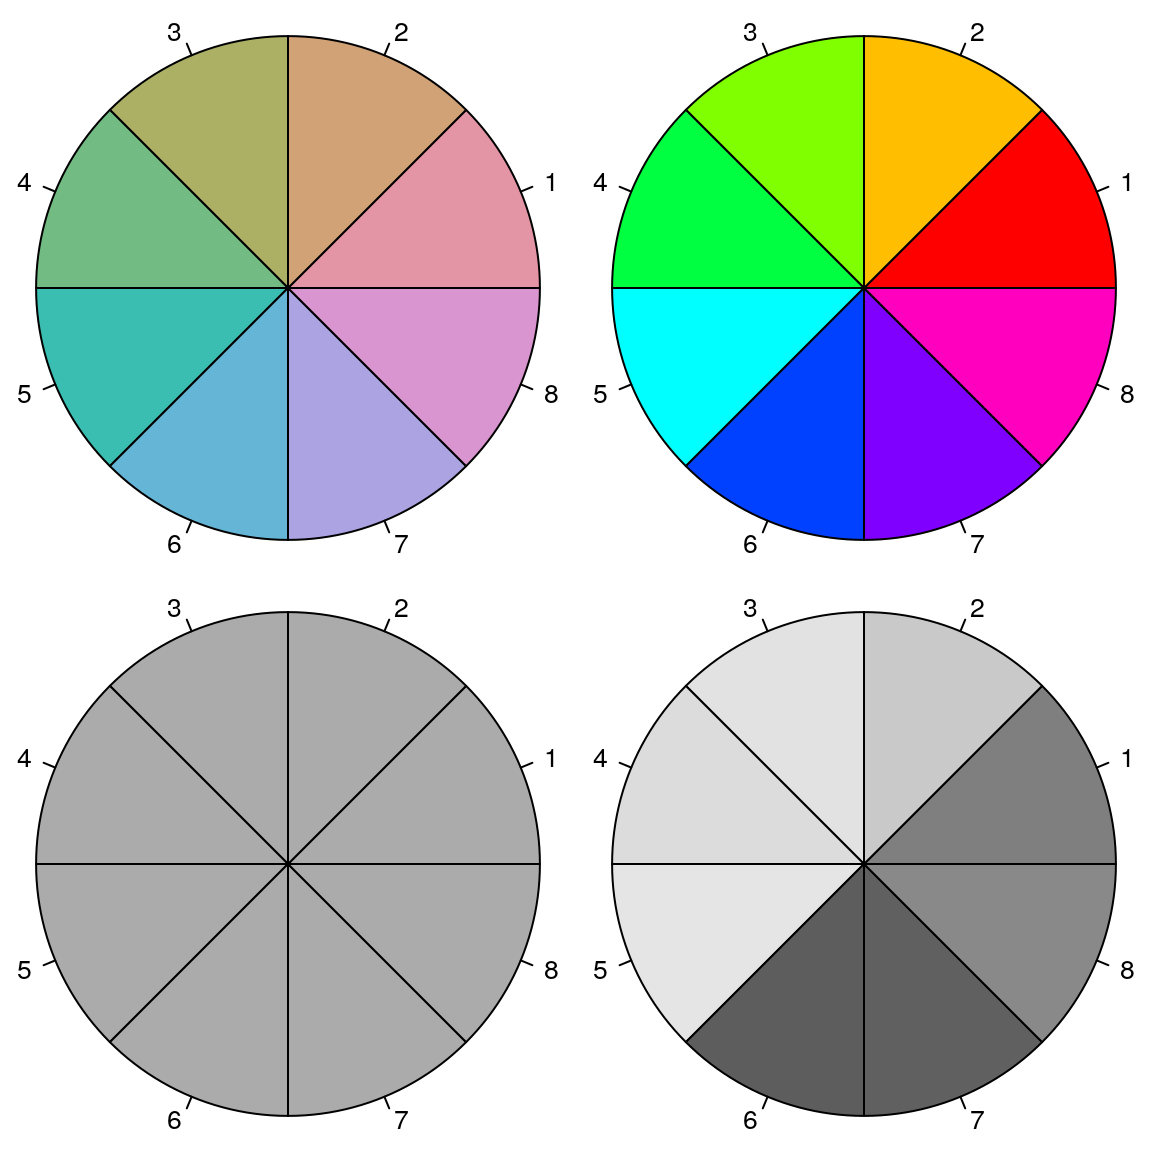
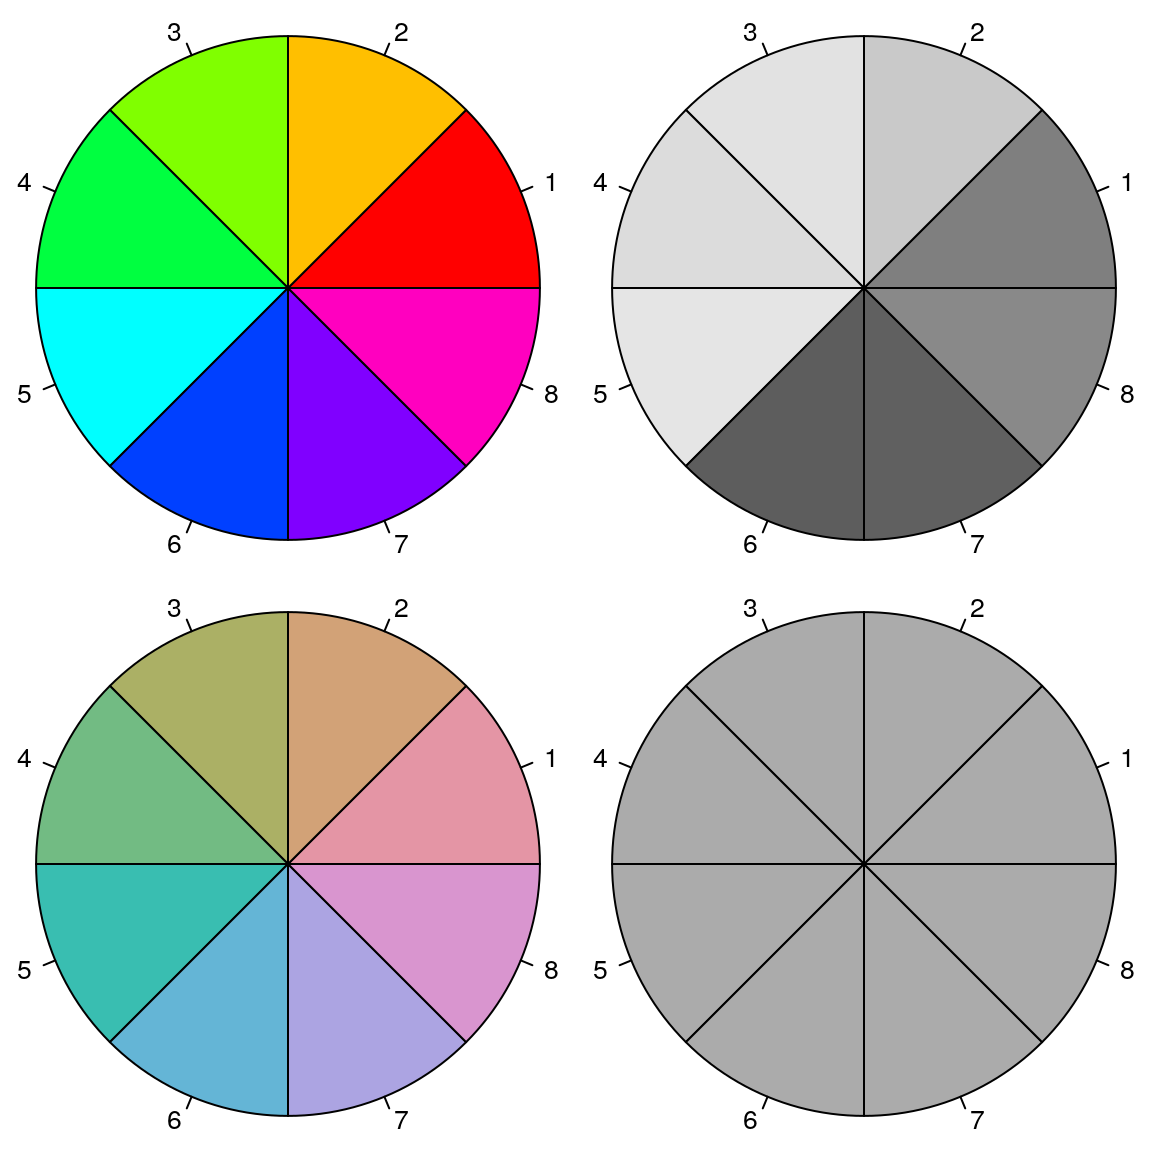
touch-ups by COW
git-svn-id: svn://svn.r-forge.r-project.org/svnroot/colorspace@356 edb9625f-4e0d-4859-8d74-9fd3b1da38cb

diff --git a/www/articles/manipulation_utilities.html b/www/articles/manipulation_utilities.html
@@ -139,10 +139,10 @@
 <div class="sourceCode" id="cb7"><pre class="sourceCode r"><code class="sourceCode r"><a class="sourceLine" id="cb7-1" data-line-number="1">wheel &lt;-<span class="st"> </span><span class="cf">function</span>(col, <span class="dt">radius =</span> <span class="dv">1</span>, ...)</a>
 <a class="sourceLine" id="cb7-2" data-line-number="2">  <span class="kw">pie</span>(<span class="kw">rep</span>(<span class="dv">1</span>, <span class="kw">length</span>(col)), <span class="dt">col =</span> col, <span class="dt">radius =</span> radius, ...) </a>
 <a class="sourceLine" id="cb7-3" data-line-number="3"><span class="kw">par</span>(<span class="dt">mar =</span> <span class="kw">rep</span>(<span class="fl">0.5</span>, <span class="dv">4</span>), <span class="dt">mfrow =</span> <span class="kw">c</span>(<span class="dv">2</span>, <span class="dv">2</span>))</a>
-<a class="sourceLine" id="cb7-4" data-line-number="4"><span class="kw">wheel</span>(<span class="kw"><a href="../reference/rainbow_hcl.html">rainbow_hcl</a></span>(<span class="dv">8</span>))</a>
-<a class="sourceLine" id="cb7-5" data-line-number="5"><span class="kw">wheel</span>(<span class="kw">rainbow</span>(<span class="dv">8</span>))</a>
-<a class="sourceLine" id="cb7-6" data-line-number="6"><span class="kw">wheel</span>(<span class="kw"><a href="../reference/desaturate.html">desaturate</a></span>(<span class="kw"><a href="../reference/rainbow_hcl.html">rainbow_hcl</a></span>(<span class="dv">8</span>)))</a>
-<a class="sourceLine" id="cb7-7" data-line-number="7"><span class="kw">wheel</span>(<span class="kw"><a href="../reference/desaturate.html">desaturate</a></span>(<span class="kw">rainbow</span>(<span class="dv">8</span>)))</a></code></pre></div>
+<a class="sourceLine" id="cb7-4" data-line-number="4"><span class="kw">wheel</span>(<span class="kw">rainbow</span>(<span class="dv">8</span>))</a>
+<a class="sourceLine" id="cb7-5" data-line-number="5"><span class="kw">wheel</span>(<span class="kw"><a href="../reference/desaturate.html">desaturate</a></span>(<span class="kw">rainbow</span>(<span class="dv">8</span>)))</a>
+<a class="sourceLine" id="cb7-6" data-line-number="6"><span class="kw">wheel</span>(<span class="kw"><a href="../reference/rainbow_hcl.html">rainbow_hcl</a></span>(<span class="dv">8</span>))</a>
+<a class="sourceLine" id="cb7-7" data-line-number="7"><span class="kw">wheel</span>(<span class="kw"><a href="../reference/desaturate.html">desaturate</a></span>(<span class="kw"><a href="../reference/rainbow_hcl.html">rainbow_hcl</a></span>(<span class="dv">8</span>)))</a></code></pre></div>
 <p><img src="manipulation_utilities_files/figure-html/desaturate-wheel-1.png" width="576"></p>
 </div>
 <div id="lighten-or-darken-colors" class="section level2">

diff --git a/www/articles/approximations.html b/www/articles/approximations.html
@@ -137,9 +137,9 @@
 <div class="sourceCode" id="cb3"><pre class="sourceCode r"><code class="sourceCode r"><a class="sourceLine" id="cb3-1" data-line-number="1"><span class="kw">demo</span>(<span class="st">"viridis"</span>, <span class="dt">package =</span> <span class="st">"colorspace"</span>)</a></code></pre></div>
 <p><img src="approximations_files/figure-html/viridis-1.png" width="288"><img src="approximations_files/figure-html/viridis-2.png" width="288"><img src="approximations_files/figure-html/viridis-3.png" width="288"></p>
 </div>
-<div id="approximations-of-colorbrewer-org-palettes-1" class="section level2">
+<div id="approximations-of-crameris-scientific-color-scico-palettes" class="section level2">
 <h2 class="hasAnchor">
-<a href="#approximations-of-colorbrewer-org-palettes-1" class="anchor"></a>Approximations of ColorBrewer.org palettes</h2>
+<a href="#approximations-of-crameris-scientific-color-scico-palettes" class="anchor"></a>Approximations of Crameri’s scientific color (scico) palettes</h2>
 <div class="sourceCode" id="cb4"><pre class="sourceCode r"><code class="sourceCode r"><a class="sourceLine" id="cb4-1" data-line-number="1"><span class="kw">demo</span>(<span class="st">"scico"</span>, <span class="dt">package =</span> <span class="st">"colorspace"</span>)</a></code></pre></div>
 <p><img src="approximations_files/figure-html/scico-1.png" width="288"><img src="approximations_files/figure-html/scico-2.png" width="288"><img src="approximations_files/figure-html/scico-3.png" width="288"><img src="approximations_files/figure-html/scico-4.png" width="288"><img src="approximations_files/figure-html/scico-5.png" width="288"><img src="approximations_files/figure-html/scico-6.png" width="288"><img src="approximations_files/figure-html/scico-7.png" width="288"><img src="approximations_files/figure-html/scico-8.png" width="288"><img src="approximations_files/figure-html/scico-9.png" width="288"></p>
 </div>
@@ -184,7 +184,7 @@
       <li><a href="#approximations-of-colorbrewer-org-palettes">Approximations of ColorBrewer.org palettes</a></li>
       <li><a href="#approximations-of-carto-palettes">Approximations of CARTO palettes</a></li>
       <li><a href="#approximations-of-viridis-palettes">Approximations of viridis palettes</a></li>
-      <li><a href="#approximations-of-colorbrewer-org-palettes-1">Approximations of ColorBrewer.org palettes</a></li>
+      <li><a href="#approximations-of-crameris-scientific-color-scico-palettes">Approximations of Crameri’s scientific color (scico) palettes</a></li>
       <li><a href="#references">References</a></li>
       </ul>
 </div>
